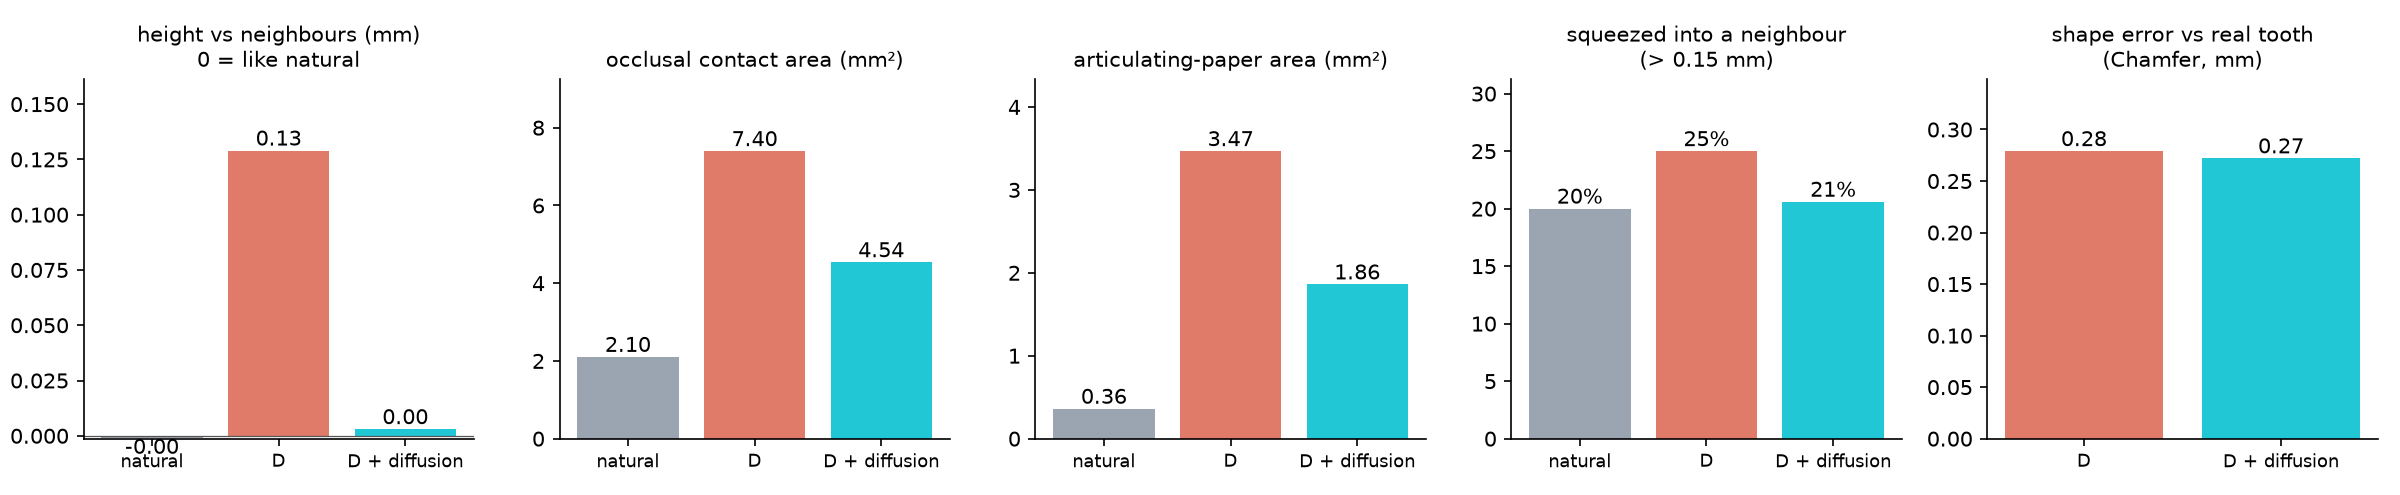
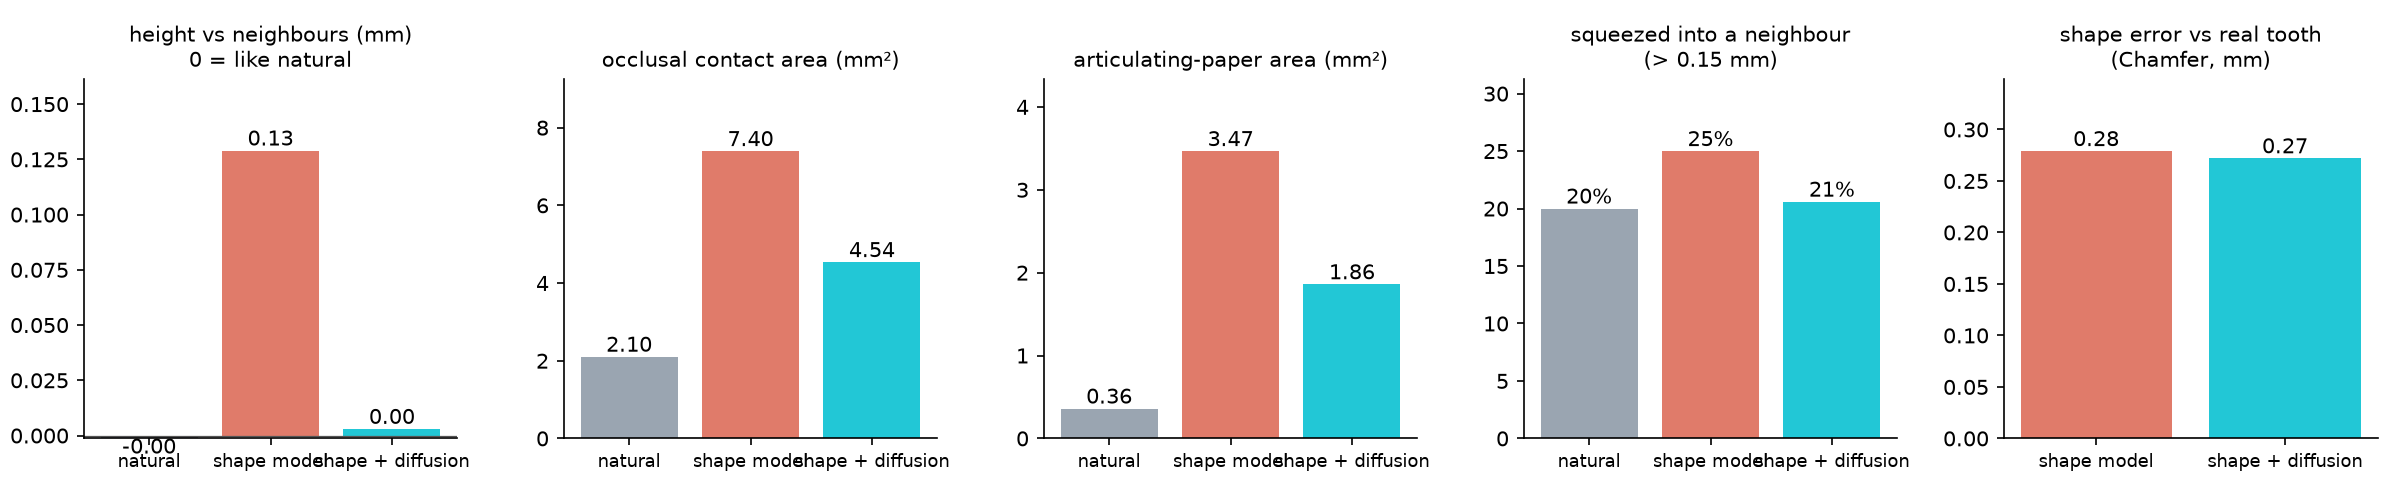
报告里的内部代号换成看得懂的名字：D → 形状模型，A/B/C → 试验 1/2/3，E → 外形 + 间隙损失试验；图的标签同步

diff --git a/docs/generation.html b/docs/generation.html
@@ -32,7 +32,7 @@ td.w{white-space:normal;min-width:260px}
 <a href="https://github.com/zhuyetuo/dental_3d_ai">代码仓库</a></div></nav>
 <div class="wrap">
   <header>
-    <div class="eyebrow">专项 · 牙冠生成 · 更新于 2026-11-14（D + 扩散）</div>
+    <div class="eyebrow">专项 · 牙冠生成 · 更新于 2026-11-14（形状模型 + 扩散）</div>
     <h1>缺牙位置生成一颗牙冠</h1>
     <p class="lead">现状一句话：和对颌、邻牙的距离关系已经接近天然牙，但<b>整体形状不像真牙，咬合面的凹凸也不够</b>。数字好看不等于牙冠好看，下一步先解决形状。</p>
   </header>
@@ -130,9 +130,9 @@ td.w{white-space:normal;min-width:260px}
 
 
   <section>
-    <h2>新：D 出形状，扩散模型补细节（11-14，网页已默认使用）</h2>
-    <p>回归模型 D 整体形状准，但咬合面整片贴着对颌；扩散模型单独用时细节像真牙，但形状偏。把两个接起来：
-    D 先出牙冠 → 投到径向深度图上 → 加噪到第 600 步（共 1000）→ 扩散模型去噪，每一步把低频部分换回 D 的（只取扩散模型的细节）。不用重新训练。</p>
+    <h2>新：形状模型 出形状，扩散模型补细节（11-14，网页已默认使用）</h2>
+    <p>形状模型 整体形状准，但咬合面整片贴着对颌；扩散模型单独用时细节像真牙，但形状偏。把两个接起来：
+    形状模型 先出牙冠 → 投到径向深度图上 → 加噪到第 600 步（共 1000）→ 扩散模型去噪，每一步把低频部分换回 形状模型 的（只取扩散模型的细节）。不用重新训练。</p>
     <div class="tiles">
       <div class="tile"><div class="k">相对邻牙的高度</div><div class="v"><s>+0.13</s><b>0.00 mm</b></div><div class="n">天然牙 0.00</div></div>
       <div class="tile"><div class="k">咬合接触面积</div><div class="v"><s>7.4</s><b>4.5 mm²</b></div><div class="n">天然牙 2.1</div></div>
@@ -140,17 +140,17 @@ td.w{white-space:normal;min-width:260px}
       <div class="tile"><div class="k">和真牙的形状误差</div><div class="v"><s>0.28</s><b>0.27 mm</b></div><div class="n">整体形状没变差</div></div>
     </div>
     <figure>
-      <img src="images/refine_metrics.png" alt="天然牙、D、D+扩散的评分卡柱状图">
-      <figcaption>60 位没参加训练的患者、228 颗牙（Bite2Text），目标“刚好接触”，中位数。灰：天然牙；红：D；青：D + 扩散。</figcaption>
+      <img src="images/refine_metrics.png" alt="天然牙、形状模型、形状模型+扩散的评分卡柱状图">
+      <figcaption>60 位没参加训练的患者、228 颗牙（Bite2Text），目标“刚好接触”，中位数。灰：天然牙；红：形状模型；青：形状模型 + 扩散。</figcaption>
     </figure>
     <figure>
-      <img src="images/refine_fit.png" alt="四颗牙：D、D+扩散、真牙，咬合面和颊侧">
-      <figcaption>磨牙、前磨牙各取 D 形状误差 30%、70% 分位的两颗（不挑）。咬合面按到对颌的距离上色（黄 = 接触）：D 的黄色接触区成片，D+扩散变成几个点，更像真牙。颊侧外形基本跟着 D。
+      <img src="images/refine_fit.png" alt="四颗牙：形状模型、形状模型+扩散、真牙，咬合面和颊侧">
+      <figcaption>磨牙、前磨牙各取 形状模型 形状误差 30%、70% 分位的两颗（不挑）。咬合面按到对颌的距离上色（黄 = 接触）：形状模型 的黄色接触区成片，形状模型+扩散变成几个点，更像真牙。颊侧外形基本跟着 形状模型。
       还不够的：窝沟仍比真牙浅、浅；34 的远中边缘多出一个小缺口（扩散模型在图边缘不稳定）。</figcaption>
     </figure>
     <div class="scroll">
     <table>
-      <tr><th>指标（中位数）</th><th>天然牙</th><th>D</th><th>D + 扩散</th><th>只用扩散（v1）</th></tr>
+      <tr><th>指标（中位数）</th><th>天然牙</th><th>形状模型</th><th>形状模型 + 扩散</th><th>只用扩散（v1）</th></tr>
       <tr><td>形状误差 Chamfer</td><td>—</td><td>0.279</td><td><b>0.272</b></td><td>0.37</td></tr>
       <tr><td>RMSE / Hausdorff</td><td>—</td><td>0.33 / 1.18</td><td>0.33 / 1.20</td><td>0.52 / 1.58</td></tr>
       <tr><td>牙尖 / 中央窝位置偏差</td><td>—</td><td>0.83 / 0.84</td><td>0.84 / 0.86</td><td>1.18 / 1.80</td></tr>
@@ -161,7 +161,7 @@ td.w{white-space:normal;min-width:260px}
     </table>
     </div>
     <p>和别家比：CrownFusion 等用扩散模型直接生成牙冠；我们发现单独扩散形状偏（和 CrownFusion 论文里扩散比回归 Chamfer 大一致），
-    所以用“回归出形状 + 扩散补细节”（类似 SDEdit 的做法），两边的长处都拿到。下一步：扩散模型接着训（v2 正在训），以及在 D 的输出上专门训一个补细节的扩散模型。</p>
+    所以用“回归出形状 + 扩散补细节”（类似 SDEdit 的做法），两边的长处都拿到。下一步：扩散模型接着训（v2 正在训），以及在 形状模型 的输出上专门训一个补细节的扩散模型。</p>
   </section>
 
   <section>
@@ -236,13 +236,13 @@ td.w{white-space:normal;min-width:260px}
     <table>
       <tr><th>模型</th><th>和真牙的距离</th><th>穿入对颌 &gt; 0.1 mm</th><th>到对颌的最近距离和真牙差</th></tr>
       <tr><td>原模型（不看对颌）</td><td><span class="bar r" style="width:89px"></span>0.446 mm</td><td><span class="bar r" style="width:94px"></span>47%</td><td>0.28 mm</td></tr>
-      <tr><td>A　只加对颌整体特征</td><td><span class="bar" style="width:77px"></span>0.386 mm</td><td><span class="bar" style="width:64px"></span>32%</td><td>0.21 mm</td></tr>
-      <tr><td>B　A + 逐顶点修正</td><td><span class="bar" style="width:73px"></span>0.363 mm</td><td><span class="bar" style="width:14px"></span>7%</td><td>0.17 mm</td></tr>
-      <tr><td>C　B + 最近距离对齐真牙</td><td><span class="bar" style="width:78px"></span>0.389 mm</td><td><span class="bar" style="width:34px"></span>17%</td><td>0.13 mm</td></tr>
-      <tr class="pick"><td>D　采用：对颌只取最近一层</td><td><span class="bar" style="width:76px"></span>0.382 mm</td><td><span class="bar" style="width:24px"></span>12%</td><td>0.14 mm</td></tr>
+      <tr><td>试验 1：只加对颌整体特征</td><td><span class="bar" style="width:77px"></span>0.386 mm</td><td><span class="bar" style="width:64px"></span>32%</td><td>0.21 mm</td></tr>
+      <tr><td>试验 2：试验 1 + 逐顶点修正</td><td><span class="bar" style="width:73px"></span>0.363 mm</td><td><span class="bar" style="width:14px"></span>7%</td><td>0.17 mm</td></tr>
+      <tr><td>试验 3：试验 2 + 最近距离对齐真牙</td><td><span class="bar" style="width:78px"></span>0.389 mm</td><td><span class="bar" style="width:34px"></span>17%</td><td>0.13 mm</td></tr>
+      <tr class="pick"><td>形状模型（采用）：对颌只取最近一层</td><td><span class="bar" style="width:76px"></span>0.382 mm</td><td><span class="bar" style="width:24px"></span>12%</td><td>0.14 mm</td></tr>
     </table>
     </div>
-    <p class="note">留出的 42 位患者、1375 颗牙，模型直接输出。“穿入”是用对颌的点近似量的，同样量法真牙是 23%，只用来比较模型。B 在表上最好，但放进完整流程后牙冠平均高出 0.64 mm（训练和实际使用时给的对颌范围不一样），D 把两边统一后没有这个问题。</p>
+    <p class="note">留出的 42 位患者、1375 颗牙，模型直接输出。“穿入”是用对颌的点近似量的，同样量法真牙是 23%，只用来比较模型。试验 2 在表上最好，但放进完整流程后牙冠平均高出 0.64 mm（训练和实际使用时给的对颌范围不一样），形状模型 把两边统一后没有这个问题。</p>
   </section>
 
   <section>

diff --git a/docs/ideas.html b/docs/ideas.html
@@ -28,16 +28,16 @@ td.w{white-space:normal;min-width:240px}
     <h2>牙冠生成</h2>
     <div class="scroll"><table>
       <tr><th>想法</th><th>状态</th><th>为什么 / 现在到哪</th><th>代价</th></tr>
-      <tr><td>扩散模型接着训（v2）</td><td><span class="state mid">暂停</span></td><td class="w">v1 只训了 30 轮，损失还在降。v2 从 v1 接着训，11-15 训到第 10 轮时暂停，GPU 让给“D 条件扩散”。
+      <tr><td>扩散模型接着训（v2）</td><td><span class="state mid">暂停</span></td><td class="w">v1 只训了 30 轮，损失还在降。v2 从 v1 接着训，11-15 训到第 10 轮时暂停，GPU 让给“看着形状模型补细节的扩散”。
       检查点在服务器 runs/radial_diffusion_v2/model_paused.pt，用 --init 接着训</td><td class="cost">剩 30 轮约 2.5 小时；可能要 100 小时以上才饱和</td></tr>
-      <tr><td>专门训一个“在 D 上补细节”的扩散模型</td><td><span class="state mid">进行中</span></td><td class="w">把 D 的输出当条件、真牙当目标专门训（radial_diffusion train --with-d）。11-15：3.4 万颗训练牙的 D 图已生成（radial_dmaps.py，约 20 分钟），
-      从 v2 第 10 轮的权重起步训 25 轮；训练时给 D 的图加扰动，防止学成“照抄 D”</td><td class="cost">25 轮约 2 小时；效果好的话值得训到 100 轮以上</td></tr>
-      <tr><td>D 图的数据准备搬到 GPU 上</td><td><span class="state">待做</span></td><td class="w">现在 44 个 CPU 核并行约 20 分钟（读口扫、估牙弓方向、表面采样、投影都是逐颗做的）。D 批量推理 + 采样、投影写成矩阵运算放 GPU，预计几分钟。D 换新版本要重新生成时再做</td><td class="cost">半天</td></tr>
+      <tr><td>专门训一个“看着形状模型补细节”的扩散模型</td><td><span class="state mid">进行中</span></td><td class="w">把 形状模型 的输出当条件、真牙当目标专门训（radial_diffusion train --with-d）。11-15：3.4 万颗训练牙的 形状模型的图已生成（radial_dmaps.py，约 20 分钟），
+      从 v2 第 10 轮的权重起步训 25 轮；训练时给 形状模型 的图加扰动，防止学成“照抄形状模型”</td><td class="cost">25 轮约 2 小时；效果好的话值得训到 100 轮以上</td></tr>
+      <tr><td>形状模型的图的数据准备搬到 GPU 上</td><td><span class="state">待做</span></td><td class="w">现在 44 个 CPU 核并行约 20 分钟（读口扫、估牙弓方向、表面采样、投影都是逐颗做的）。形状模型 批量推理 + 采样、投影写成矩阵运算放 GPU，预计几分钟。形状模型 换新版本要重新生成时再做</td><td class="cost">半天</td></tr>
       <tr><td>一次生成多颗，按邻牙 / 对颌贴合挑一颗</td><td><span class="state">待做</span></td><td class="w">扩散每次结果不同；评分卡本身就能当挑选标准。改动小</td><td class="cost">推理时间 × 采样数</td></tr>
-      <tr><td>图边缘（邻面）的小缺口</td><td><span class="state">待做</span></td><td class="w">D+扩散 个别牙在邻面出现缺口（报告图里的 34）。可以在边缘区域多保留 D 的形状</td><td class="cost">小</td></tr>
+      <tr><td>图边缘（邻面）的小缺口</td><td><span class="state">待做</span></td><td class="w">形状模型+扩散 个别牙在邻面出现缺口（报告图里的 34）。可以在边缘区域多保留 形状模型 的形状</td><td class="cost">小</td></tr>
       <tr><td>生成模型升级：Flow Matching + DiT，形状潜空间</td><td><span class="state">待做</span></td><td class="w">现在的扩散是 DDPM + U-Net + 2D 径向图（约 2021–22 年的配置）。换成 Flow Matching（采样步数少）+ Transformer 去噪网络，表示换成 3D 形状潜空间（窝沟分辨率更高）；或者在 TRELLIS / Hunyuan3D 这类大模型权重上微调。见业界进展页</td><td class="cost">重写模型 + 重训，几天；大模型微调需要更多显存</td></tr>
       <tr><td>窝沟更深、更细</td><td><span class="state">待做</span></td><td class="w">所有模型的窝沟都比真牙浅。径向图中心分辨率低：换成以咬合面为中心的高度图，或多视角深度图</td><td class="cost">换表示要重做缓存 + 重训</td></tr>
-      <tr><td>评分卡做成可微的损失</td><td><span class="state">部分</span></td><td class="w">模型 E 直接加进损失失败了（撑大牙冠）。改成扩散采样时的引导（guidance），不改训练</td><td class="cost">中</td></tr>
+      <tr><td>评分卡做成可微的损失</td><td><span class="state">部分</span></td><td class="w">“外形 + 间隙损失”试验 直接加进损失失败了（撑大牙冠）。改成扩散采样时的引导（guidance），不改训练</td><td class="cost">中</td></tr>
       <tr><td>复现 CrownGen / ToothCraft，在我们的评分卡上比</td><td><span class="state">待做</span></td><td class="w">CrownGen 有代码和示例数据，ToothCraft 有权重。用同一套评分卡比，才知道我们到底处在什么位置</td><td class="cost">各 1–2 天</td></tr>
       <tr><td>第三磨牙生成</td><td><span class="state">待做</span></td><td class="w">现在交给几何方法兜底</td><td class="cost">小</td></tr>
       <tr><td>用技工设计的牙冠当真值</td><td><span class="state bad">缺数据</span></td><td class="w">现在的真值是天然牙，不是修复体设计（DMC、MADCrowner 都用技工设计）。要和技工所合作拿数据</td><td class="cost">数据</td></tr>

diff --git a/docs/history.html b/docs/history.html
@@ -45,10 +45,10 @@
     <div class="two">
       <div class="lesson"><b>1. 先看失败病例，常比重新训练有效</b><span>真实缺牙检出 43% → 55% 靠的是“合并被切开的牙”这条后处理，模拟闭合缺隙重训只多了 2 个点；咬合“够不着就抬、穿过去的磨掉”也是改做法不是改模型。</span></div>
       <div class="lesson"><b>2. 距离指标好 ≠ 牙冠好看</b><span>真牙细节库、扩散 v1 外观更像真牙，但和真牙的距离反而变大。所以评分卡加了邻接、咬合、牙尖窝沟，按“先整体形状、再咬合面”的顺序判断。</span></div>
-      <div class="lesson"><b>3. 组合比替换好</b><span>扩散模型单独用形状偏，回归模型 D 单独用细节平；D 出形状、扩散补细节，两边的长处都拿到（11-14）。</span></div>
-      <div class="lesson"><b>4. 直接往损失里加约束容易牺牲形状</b><span>模型 E 加外形尺寸 / 邻牙间隙损失，挤进邻牙 25% → 52%。约束放在生成后的调整（或扩散采样时逐像素限制）更稳。</span></div>
+      <div class="lesson"><b>3. 组合比替换好</b><span>扩散模型单独用形状偏，形状模型 单独用细节平；形状模型 出形状、扩散补细节，两边的长处都拿到（11-14）。</span></div>
+      <div class="lesson"><b>4. 直接往损失里加约束容易牺牲形状</b><span>“外形 + 间隙损失”试验 加外形尺寸 / 邻牙间隙损失，挤进邻牙 25% → 52%。约束放在生成后的调整（或扩散采样时逐像素限制）更稳。</span></div>
       <div class="lesson"><b>5. 模拟数据和真实数据差得远</b><span>模拟缺牙检出 9 成，真实缺牙只有 4 成；模拟的闭合缺隙只是平移，真实的牙会倾斜、旋转。要尽早拿真实数据测。</span></div>
-      <div class="lesson"><b>6. 训练和推理的输入要一致</b><span>模型 B 训练时对颌是裁过的、推理时给整颌，结果整体偏高 0.64 mm；改成同样的裁法（D）就好了。</span></div>
+      <div class="lesson"><b>6. 训练和推理的输入要一致</b><span>试验 2 训练时对颌是裁过的、推理时给整颌，结果整体偏高 0.64 mm；改成同样的裁法（形状模型）就好了。</span></div>
     </div>
   </section>
 
@@ -61,10 +61,10 @@
     <div class="tl" id="tl">
 
       <div class="ev ok" data-k="gen"><div class="d">2026-11-14</div>
-        <h3>D 出形状、扩散模型补细节<span class="tag">牙冠生成</span></h3>
-        <p>D 的牙冠投到径向深度图，加噪到 600/1000 步再去噪，每步把低频换回 D 的。不需要重新训练。网页默认生成器换成它。</p>
+        <h3>形状模型 出形状、扩散模型补细节<span class="tag">牙冠生成</span></h3>
+        <p>形状模型 的牙冠投到径向深度图，加噪到 600/1000 步再去噪，每步把低频换回 形状模型 的。不需要重新训练。网页默认生成器换成它。</p>
         <p class="num">相对邻牙高度 <s>+0.13</s><b>0.00 mm</b> · 咬合接触面积 <s>7.4</s><b>4.5 mm²</b> · 挤进邻牙 <s>25%</s><b>21%</b> · 形状误差 <s>0.279</s><b>0.272 mm</b></p>
-        <img src="images/refine_metrics.png" alt="D+扩散评分卡" loading="lazy"></div>
+        <img src="images/refine_metrics.png" alt="形状模型+扩散评分卡" loading="lazy"></div>
 
       <div class="ev no" data-k="gen"><div class="d">2026-11-14</div>
         <h3>扩散模型第一版（径向深度图）<span class="tag">牙冠生成</span></h3>
@@ -77,12 +77,12 @@
         <p>牙尖 / 中央窝标志点误差、RMSE、Hausdorff、虚拟咬合纸面积（照 CrownGen、MADCrowner 等论文的量法）。已知问题：低矮的磨牙牙尖会漏检。</p></div>
 
       <div class="ev no" data-k="gen"><div class="d">2026-11-14</div>
-        <h3>模型 E：外形尺寸 + 邻牙间隙进损失<span class="tag">牙冠生成</span></h3>
+        <h3>“外形 + 间隙损失”试验：外形尺寸 + 邻牙间隙进损失<span class="tag">牙冠生成</span></h3>
         <p>想让评分卡直接当损失。结果牙冠被撑大。</p>
         <p class="num">挤进邻牙 <s>25%</s> → 52%</p></div>
 
       <div class="ev ok" data-k="gen"><div class="d">2026-11-14</div>
-        <h3>生成模型看对颌（模型 D）+ 封底后补做邻接<span class="tag">牙冠生成</span></h3>
+        <h3>生成模型看对颌（形状模型）+ 封底后补做邻接<span class="tag">牙冠生成</span></h3>
         <p>每个点看最近的 8 个对颌点；对颌按“牙冠上方 4 mm 厚的一片”裁剪，训练和推理一致。封底会切掉接触点，封底后在实体上再调一次邻接。</p>
         <p class="num">直接输出穿进对颌 <s>48%</s><b>5%</b> · 邻接有缝 <s>38%</s><b>3.9%</b> · 要求接触却没咬上 <s>6.6%</s><b>1.3%</b></p>
         <img src="images/occlusion_metrics.png" alt="对颌模型评分卡" loading="lazy"></div>

diff --git a/docs/landscape.html b/docs/landscape.html
@@ -70,7 +70,7 @@ td.w{white-space:normal;min-width:260px}
       <tr><td>2026-06</td><td>生成</td><td>深度谱模型（arXiv 2606.31293）</td><td class="w">ToothForge 的后续，形状生成更稳健</td></tr>
       <tr><td>2026-08</td><td>分割</td><td>TeethSplineSeg（B 样条牙弓坐标）</td><td class="w">PTv3 + 牙弓连续坐标，T-mIoU 92.6%，训练 2 小时、推理 0.8 秒</td></tr>
       <tr><td>2026</td><td>产业</td><td>exocad DentalCAD 3.3</td><td class="w">AI 支持最多 3 颗相邻后牙冠 / 3 单位桥，加上咬合垫 AI</td></tr>
-      <tr><td>—</td><td>生成</td><td>CrownFusion（项目页 crownfusion.github.io）</td><td class="w">扩散模型生成牙冠；我们的径向深度图表示参考了它的“把 3D 牙冠变成 2D 图再用图像扩散”的思路</td></tr>
+      <tr><td>—</td><td>生成</td><td>CrownFusion（项目页 crownfusion.github.io）</td><td class="w">扩散模型生成牙冠；我们的径向深度图表示参考了它的“把 3D 牙冠变成 2形状模型的图再用图像扩散”的思路</td></tr>
     </table></div>
   </section>
 
@@ -79,7 +79,7 @@ td.w{white-space:normal;min-width:260px}
     <div class="flow">
       <div class="step"><b>几何 / 模板</b>对侧镜像、标准牙库 + 手动调整（传统 CAD）</div>
       <div class="step"><b>点云补全</b>DMC、ToothCR：上下文 → 补出缺的牙</div>
-      <div class="step"><b>模板变形</b>MADCrowner、我们的 D：模板牙按上下文变形，形状稳</div>
+      <div class="step"><b>模板变形</b>MADCrowner、我们的 形状模型：模板牙按上下文变形，形状稳</div>
       <div class="step new"><b>扩散生成</b>CrownGen、ToothCraft、CrownFusion：细节更像真牙，但形状会偏</div>
       <div class="step new"><b>组合</b>我们 11-14：模板变形出形状 + 扩散补细节</div>
     </div>
@@ -108,7 +108,7 @@ td.w{white-space:normal;min-width:260px}
       <tr><th>年份</th><th>生成方法</th><th>核心思想</th><th>在牙科里的代表</th></tr>
       <tr><td>2018 以前</td><td>模板 / 统计形状模型</td><td class="w">牙库里挑标准牙，缩放、变形贴进缺隙（传统 CAD 的做法）</td><td class="w">3Shape、exocad 的牙库；我们的“几何方法”</td></tr>
       <tr><td>2014–2020</td><td>GAN</td><td class="w">生成器和判别器对抗；生成快，但训练不稳、容易模式坍塌</td><td class="w">早期 AI 牙冠（2D 深度图 GAN），2026 仍有 GAN 牙冠论文</td></tr>
-      <tr><td>2018–2021</td><td>点云补全：PCN、FoldingNet → <b>PoinTr（Transformer，2021）</b></td><td class="w">把“缺一颗牙”当成点云补全；Transformer 编码上下文</td><td class="w">DMC（2023，PoinTr）、DCrownFormer（2024）、<b>我们的 D 是这一类的模板变形版本</b></td></tr>
+      <tr><td>2018–2021</td><td>点云补全：PCN、FoldingNet → <b>PoinTr（Transformer，2021）</b></td><td class="w">把“缺一颗牙”当成点云补全；Transformer 编码上下文</td><td class="w">DMC（2023，PoinTr）、DCrownFormer（2024）、<b>我们的 形状模型 是这一类的模板变形版本</b></td></tr>
       <tr><td>2020–2022</td><td><b>扩散模型</b>：DDPM、DDIM；3D 上 PVD、LION</td><td class="w">从噪声一步步去噪；多样性和细节最好，代价是采样慢</td><td class="w">CrownGen（2025，点云扩散）、ToothCraft（2026，SDF 扩散）、<b>我们的径向深度图扩散（U-Net）</b></td></tr>
       <tr><td>2023</td><td>DiT（Transformer 当扩散的去噪网络）、3DShape2VecSet（形状潜空间）</td><td class="w">去噪网络从 U-Net 换成 Transformer；先把形状压成一组潜向量再在潜空间扩散</td><td class="w">牙科里还很少</td></tr>
       <tr><td>2023–2024</td><td><b>Flow Matching / Rectified Flow</b></td><td class="w">扩散的“直线版”：学从噪声到数据的速度场，采样步数少、训练更稳；SD3（2024）开始成为主流</td><td class="w">牙科里还没见到</td></tr>

diff --git a/scripts/make_refine_figure.py b/scripts/make_refine_figure.py
@@ -74,7 +74,7 @@ def fig_fit(args, out: Path):
         col = np.where((lab2 > 0)[:, None], F.IVORY, F.GUM)
         base = F.sample(ctx_mesh, col, per_mm2=500)
         solids, note = [], {"patient": pid, "fdi": fdi}
-        for key, gen in (("D", d), ("D+diffusion", new)):
+        for key, gen in (("shape", d), ("shape+diffusion", new)):
             with tempfile.TemporaryDirectory() as tmp:
                 rep = run(mesh2, jaw, _Fixed(lab2), tmp, generator=gen, antagonist=ant, preferences=prefs)
                 g = next(x for x in rep["generated"] if x["fdi"] == fdi)
@@ -89,7 +89,7 @@ def fig_fit(args, out: Path):
         rows += [top, side]
         titles += [f"{name} {fdi}\nocclusal view", f"{name} {fdi}\nbuccal view"]
         notes.append(note)
-    F.grid(rows, ["D (current shape model)", "D + diffusion detail", "real tooth"], titles, out, panel=2.8)
+    F.grid(rows, ["shape model", "shape model + diffusion detail", "real tooth"], titles, out, panel=2.8)
     print(json.dumps(notes))
 
 
@@ -106,7 +106,7 @@ def fig_metrics(args, out: Path):
     ]
     fig, axes = plt.subplots(1, len(items), figsize=(16, 3.3))
     for ax, (title, get, with_nat) in zip(axes, items):
-        labels = (["natural"] if with_nat else []) + ["D", "D + diffusion"]
+        labels = (["natural"] if with_nat else []) + ["shape model", "shape + diffusion"]
         vals = ([get(S["new"], "natural")] if with_nat else []) + [get(S["D"], K), get(S["new"], K)]
         colors = (["#9aa5b1"] if with_nat else []) + ["#e07b6a", "#22c7d6"]
         bars = ax.bar(labels, vals, color=colors)

diff --git a/docs/results.md b/docs/results.md
@@ -354,14 +354,14 @@
 | A：只加对颌分支 | 0.386 mm | 0.21 mm | 32% | 30% |
 | B：A + 逐顶点修正 | 0.363 mm | 0.17 mm | 7% | 25% |
 | C：B + “最近距离对齐真牙”（权重 2） | 0.389 mm | 0.13 mm | 17% | 18% |
-| **D（采用）：对颌只取最近一层 + 修正 + 对齐（权重 1）** | 0.382 mm | 0.14 mm | 12% | 21% |
-| D，把对颌遮住 | 0.386 mm | 0.28 mm | 50% | 24% |
+| **形状模型（采用）：对颌只取最近一层 + 修正 + 对齐（权重 1）** | 0.382 mm | 0.14 mm | 12% | 21% |
+| 形状模型，把对颌遮住 | 0.386 mm | 0.28 mm | 50% | 24% |
 
-- **只加一个全局的对颌特征（A）基本没用**：形状误差下降来自多了 Bite2Text 的数据，遮住对颌几乎不变；要让每个顶点直接看到附近的对颌点（B）才学得会。
+- **只加一个全局的对颌特征（试验 1）基本没用**：形状误差下降来自多了 Bite2Text 的数据，遮住对颌几乎不变；要让每个顶点直接看到附近的对颌点（试验 2）才学得会。
 - **只罚穿入，模型学会的是躲开对颌**（B 到对颌的最近距离中位数 +0.14 mm，真牙 +0.02 mm）；加上“最近距离对齐真牙”后回到 +0.04 mm（真牙 +0.03 mm）。
 - **B 放进完整流程反而变差**：牙冠比真牙高 0.64 mm、形状误差 0.48 mm。原因是训练缓存里只有离牙 6 mm 以内的对颌点，流程里给的是整块对颌网格
-  （带牙龈和远处的牙面），模型定高度时对“看到的是哪一块对颌”很敏感。D 把两边统一成“缺隙上方最靠近本颌的 4 mm 一层”，问题消失。
-  代价是 D 看到的对颌比 B 少，形状误差比 B 大 0.02 mm。
+  （带牙龈和远处的牙面），模型定高度时对“看到的是哪一块对颌”很敏感。形状模型 把两边统一成“缺隙上方最靠近本颌的 4 mm 一层”，问题消失。
+  代价是 形状模型 看到的对颌比 B 少，形状误差比 B 大 0.02 mm。
 - 没有对颌时没有退步：Teeth3DS 测试集上形状误差 0.359 → 0.352 mm。
 
 **评分卡**（同样的 60 位患者、228 颗牙冠，走完整流程）
@@ -396,12 +396,12 @@
 - 邻接、咬合接触面积、相对邻牙的高度这几项评分卡指标还没有进损失函数，现在靠生成后的几何调整保证。
 - 训练数据的牙齿范围是分割模型自动标的，没有人工核对。Bite2Text 是 CC BY-NC-SA，用它训练的权重同样只能用于研究。
 
-### 试过没采用：把“外形尺寸”和“邻牙间隙”加进损失（模型 E，2026-11-14）
+### 试过没采用：把“外形尺寸”和“邻牙间隙”加进损失（“外形 + 间隙损失”试验，2026-11-14）
 
-目的是先把整体形状做对（和近中、远中邻牙、对颌、牙龈都合适）。在模型 D 的基础上多两项损失（`--extent-weight 1 --gap-weight 2`）接着训 15 轮：
+目的是先把整体形状做对（和近中、远中邻牙、对颌、牙龈都合适）。在形状模型 的基础上多两项损失（`--extent-weight 1 --gap-weight 2`）接着训 15 轮：
 生成牙在三个方向上的最大 / 最小坐标对齐真牙；生成牙到近中 / 远中邻牙的最小距离对齐真牙。
 
-| 评分卡（60 位患者、228 颗，模型直接输出） | 天然牙 | D（现在用的） | E |
+| 评分卡（60 位患者、228 颗，模型直接输出） | 天然牙 | 形状模型（现在用的） | E |
 |---|---|---|---|
 | 邻接接触面积（近中 / 远中，中位数） | 0.72 / 0.86 mm² | 0.20 / 0.20 mm² | 0.30 / 0.64 mm² |
 | 至少一侧挤进邻牙超过 0.15 mm | 20% | 26% | **52%** |
@@ -409,7 +409,7 @@
 | 形状误差（Chamfer） | — | 0.262 mm | 0.266 mm |
 | 穿入对颌超过 0.1 mm / 没接触 | 13% / 24% | 5.3% / 13% | 4.4% / 12% |
 
-接触面积上去了，但一半的牙冠挤进了邻牙，形状误差没有变小，没有对颌时（Teeth3DS）还略差（0.352 → 0.358 mm）。**没有采用，仓库里的模型仍是 D。**
+接触面积上去了，但一半的牙冠挤进了邻牙，形状误差没有变小，没有对颌时（Teeth3DS）还略差（0.352 → 0.358 mm）。**没有采用，仓库里的模型仍是 形状模型。**
 原因（推断，未单独验证）：间隙是用点算的——邻牙只取 512 个点、真牙 2048 个点、生成牙 2561 个顶点，点稀的时候“点到点的最小距离”比真实的表面距离大，
 模型为了让这个数字和真牙一样，就把牙面往邻牙里推。下一次要用带法向的有符号距离（像对颌那样），并且把“挤进邻牙”直接当惩罚项。
 代码留着（默认权重 0，不影响现有训练）。
@@ -422,7 +422,7 @@
 - **RMSE、Hausdorff**：真牙表面到生成牙表面的距离的均方根、最大值；
 - **虚拟咬合纸**：离对颌 0.1 mm 以内的表面积。
 
-现在的模型（D）在同样的 60 位患者、228 颗牙冠上（中位数；5%–95%）：
+现在的形状模型在同样的 60 位患者、228 颗牙冠上（中位数；5%–95%）：
 
 | 指标 | 天然牙 | 模型直接输出 | 目标 0（刚好接触） |
 |---|---|---|---|
@@ -454,7 +454,7 @@
 
 评分卡（同样的 60 位患者、228 颗牙冠；目标“刚好接触”；中位数）：
 
-| 指标 | 天然牙 | 现在的模型（D） | 扩散模型第一版 |
+| 指标 | 天然牙 | 现在的形状模型 | 扩散模型第一版 |
 |---|---|---|---|
 | 形状误差（Chamfer） | — | **0.28 mm** | 0.37 mm |
 | RMSE / Hausdorff | — | **0.33 / 1.18 mm** | 0.52 / 1.58 mm |
@@ -466,23 +466,23 @@
 | 至少一侧挤进邻牙 > 0.15 mm | 20% | 25% | **22%** |
 | 至少一侧邻接有缝 > 0.15 mm | 6% | 3.9% | 5.7% |
 
-- **整体形状明显更差**（牙尖、中央窝位置偏差大一半到一倍，牙冠偏矮、窝偏浅），按“先整体形状、再咬合面”的顺序，**没有采用**，仓库里的模型仍是 D。
+- **整体形状明显更差**（牙尖、中央窝位置偏差大一半到一倍，牙冠偏矮、窝偏浅），按“先整体形状、再咬合面”的顺序，**没有采用**，仓库里的模型仍是 形状模型。
 - 咬合接触面积、挤进邻牙的比例更接近天然牙：扩散模型生成的是“一颗合理的牙”而不是平均形状，不再整片贴着对颌。
 - 形状差的原因（推断，未验证）：只采样一次，生成的是众多合理牙冠中的一颗，和这位患者的真牙差得多（CrownFusion 论文里扩散模型的 Chamfer 也比回归方法大）；
   30 轮对扩散模型偏少（损失还在降）；中心窝的位置在图上靠近圆心，分辨率反而最低。
-- 下一步可以试：训练更久；一次采样多颗，按和邻牙、对颌的贴合程度挑一颗；或者把现在模型 D 的输出当条件，让扩散模型只补细节（先形状、后细节）。
+- 下一步可以试：训练更久；一次采样多颗，按和邻牙、对颌的贴合程度挑一颗；或者把现在的形状模型 的输出当条件，让扩散模型只补细节（先形状、后细节）。
 
-### D 出形状、扩散模型补细节：整体形状不变，高度、咬合、邻接更接近天然牙，已采用（2026-11-14）
+### 形状模型 出形状、扩散模型补细节：整体形状不变，高度、咬合、邻接更接近天然牙，已采用（2026-11-14）
 
-![D + 扩散](images/refine_fit.png)
+![形状模型 + 扩散](images/refine_fit.png)
 
 ![评分卡](images/refine_metrics.png)
 
-做法（`RadialDiffusionGenerator(refine=0.6, keep_sigma=6)`，`make_generator` 在设置了 `RADIAL_MODEL` 时默认用它）：学习模型 D 先生成牙冠，投到径向深度图上；
-扩散模型第一版从它加噪到第 600 步（共 1000）开始去噪，每一步把预测的低频部分（高斯 σ = 6 像素）换回 D 的，只取扩散模型的细节。不需要重新训练。
+做法（`RadialDiffusionGenerator(refine=0.6, keep_sigma=6)`，`make_generator` 在设置了 `RADIAL_MODEL` 时默认用它）：形状模型 先生成牙冠，投到径向深度图上；
+扩散模型第一版从它加噪到第 600 步（共 1000）开始去噪，每一步把预测的低频部分（高斯 σ = 6 像素）换回 形状模型 的，只取扩散模型的细节。不需要重新训练。
 权重 `models/generation/radial_diffusion.pt`（只留 EMA、fp16，48 MB）。
 
-| 指标（60 位患者、228 颗牙，目标“刚好接触”，中位数） | 天然牙 | D | **D + 扩散** | 只加噪 0.5、不保留低频 |
+| 指标（60 位患者、228 颗牙，目标“刚好接触”，中位数） | 天然牙 | 形状模型 | **形状模型 + 扩散** | 只加噪 0.5、不保留低频 |
 |---|---|---|---|---|
 | 形状误差（Chamfer） | — | 0.279 | **0.272** | 0.297 |
 | RMSE / Hausdorff | — | 0.33 / 1.18 | 0.33 / 1.20 | 0.36 / 1.26 |
@@ -494,6 +494,6 @@
 | 至少一侧邻接有缝 > 0.15 mm | 6% | 3.9% | 3.5% | 3.5% |
 
 - 整体形状不变（误差持平或略好），牙冠高度、咬合接触、挤进邻牙都更接近天然牙，**采用**，网页默认生成器换成它。
-- 不保留低频时形状变差（牙尖、中央窝偏 1 mm 以上），说明形状要靠 D，扩散模型只适合补细节。
-- 还不够：窝沟仍比真牙浅；个别牙在图边缘（邻面）出现小缺口。模型直接输出（不做咬合调整）时穿进对颌 26%（D 5%），靠流程里的咬合调整兜住。
+- 不保留低频时形状变差（牙尖、中央窝偏 1 mm 以上），说明形状要靠 形状模型，扩散模型只适合补细节。
+- 还不够：窝沟仍比真牙浅；个别牙在图边缘（邻面）出现小缺口。模型直接输出（不做咬合调整）时穿进对颌 26%（形状模型 5%），靠流程里的咬合调整兜住。
 
